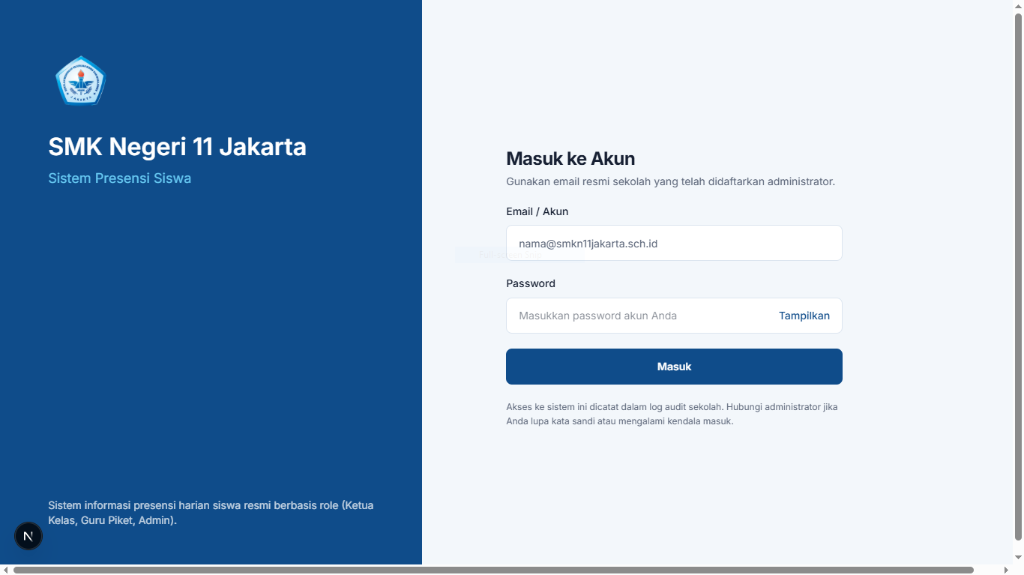
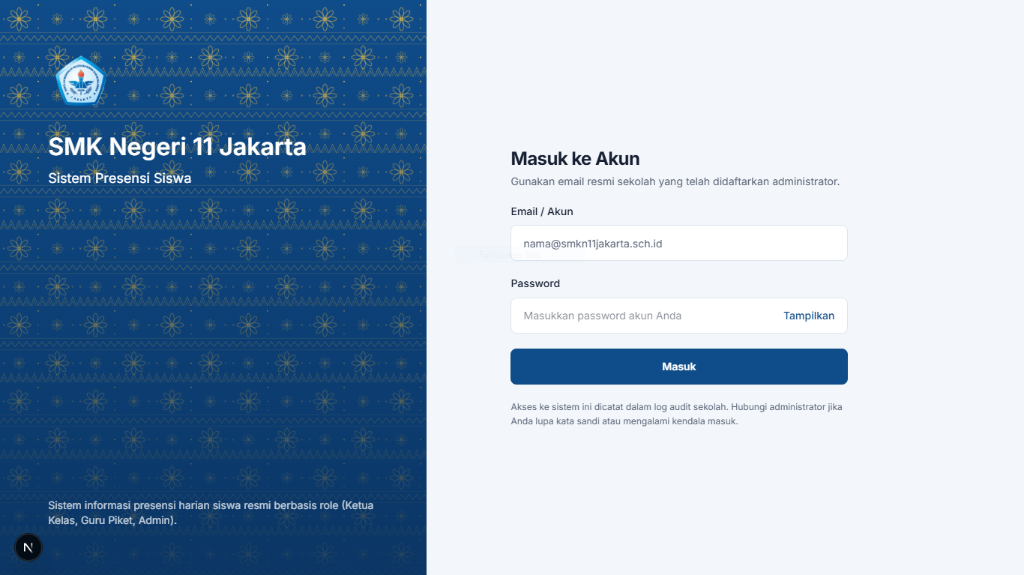
feat(login): tambahkan dekorasi motif batik Betawi dan perbarui screenshot login di README

diff --git a/components/BatikBetawi.tsx b/components/BatikBetawi.tsx
@@ -1,0 +1,42 @@
+const GOLD = "#F5C84B";
+const range = (n: number) => Array.from({ length: n }, (_, i) => i);
+
+// Gigi balang: zig-zag selebar tile (120px)
+const zigzag = range(21).map((i) => `${i ? "L" : "M"}${i * 6} ${i % 2 ? 56 : 64}`).join("");
+// Pucuk rebung: segitiga luar dan dalam
+const rebung = range(10).map((i) => `M${i * 12} 120L${i * 12 + 6} 106L${i * 12 + 12} 120`).join("");
+const rebungDalam = range(10).map((i) => `M${i * 12 + 3} 120L${i * 12 + 6} 112L${i * 12 + 9} 120`).join("");
+
+export function BatikBetawi() {
+  return (
+    <svg aria-hidden width="100%" height="100%" className="pointer-events-none absolute inset-0 h-full w-full">
+      <defs>
+        <g id="batik-kk" fill="none" stroke={GOLD} strokeOpacity={0.55}>
+          {range(8).map((i) => (
+            <ellipse key={i} cy={-9} rx={3} ry={7.5} transform={`rotate(${i * 45})`} />
+          ))}
+          <circle r={2.5} fill={GOLD} fillOpacity={0.5} stroke="none" />
+          <circle r={14.5} strokeOpacity={0.25} strokeDasharray="1 3" />
+        </g>
+        <pattern id="batik-pola" width={120} height={120} patternUnits="userSpaceOnUse" patternTransform="scale(.85)">
+          <use href="#batik-kk" transform="translate(30 30) scale(1.1)" />
+          <use href="#batik-kk" transform="translate(90 90) scale(1.1)" />
+          <use href="#batik-kk" transform="translate(90 30) scale(.55)" />
+          <use href="#batik-kk" transform="translate(30 90) scale(.55)" />
+          <g fill="none" stroke={GOLD} strokeOpacity={0.45} strokeLinejoin="round">
+            <path d={zigzag} />
+            <path d="M0 51H120M0 69H120" strokeOpacity={0.25} />
+            <path d={rebung} />
+            <path d={rebungDalam} strokeOpacity={0.3} />
+          </g>
+          <g fill={GOLD} fillOpacity={0.5}>
+            {[[60,30],[60,90],[6,30],[114,30],[6,90],[114,90],[60,8],[60,44]].map(([x, y]) => (
+              <circle key={`${x}-${y}`} cx={x} cy={y} r={1.1} />
+            ))}
+          </g>
+        </pattern>
+      </defs>
+      <rect width="100%" height="100%" fill="url(#batik-pola)" />
+    </svg>
+  );
+}

diff --git a/app/login/page.tsx b/app/login/page.tsx
@@ -2,6 +2,7 @@
 
 import { useRouter } from "next/navigation";
 import { useEffect, useState, type FormEvent } from "react";
+import { BatikBetawi } from "@/components/BatikBetawi";
 import { Logo } from "@/components/logo";
 import { btn, field } from "@/components/ui";
 import { createApiAuthRepository } from "@/lib/data/api-auth";
@@ -65,17 +66,21 @@ export default function LoginPage() {
 
   return (
     <main className="page-enter grid min-h-screen lg:grid-cols-[minmax(22rem,5fr)_7fr]">
-      <section className="hidden flex-col justify-between bg-primary p-10 lg:flex xl:p-16">
-        <div className="space-y-6">
-          <Logo size={88} />
-          <div className="space-y-2">
-            <p className="text-[2rem] font-semibold leading-tight text-white">SMK Negeri 11 Jakarta</p>
-            <p className="text-lg text-sky">Sistem Presensi Siswa</p>
+      <section className="relative hidden flex-col justify-between overflow-hidden bg-primary p-10 lg:flex xl:p-16">
+        <BatikBetawi />
+        <div aria-hidden className="pointer-events-none absolute inset-0" style={{background:"linear-gradient(180deg,rgba(10,50,95,0),rgba(10,50,95,.88))"}} />
+        <div className="relative z-10 flex flex-1 flex-col justify-between">
+          <div className="space-y-6">
+            <Logo size={88} />
+            <div className="space-y-2">
+              <p className="text-[2rem] font-semibold leading-tight text-white">SMK Negeri 11 Jakarta</p>
+              <p className="text-lg text-white">Sistem Presensi Siswa</p>
+            </div>
           </div>
+          <p className="max-w-md text-sm text-white/75">
+            Sistem informasi presensi harian siswa resmi berbasis role (Ketua Kelas, Guru Piket, Admin).
+          </p>
         </div>
-        <p className="max-w-md text-sm text-white/75">
-          Sistem informasi presensi harian siswa resmi berbasis role (Ketua Kelas, Guru Piket, Admin).
-        </p>
       </section>
 
       <section className="flex flex-col justify-center px-6 py-12 sm:px-12 md:px-16 lg:px-20 xl:px-28">
